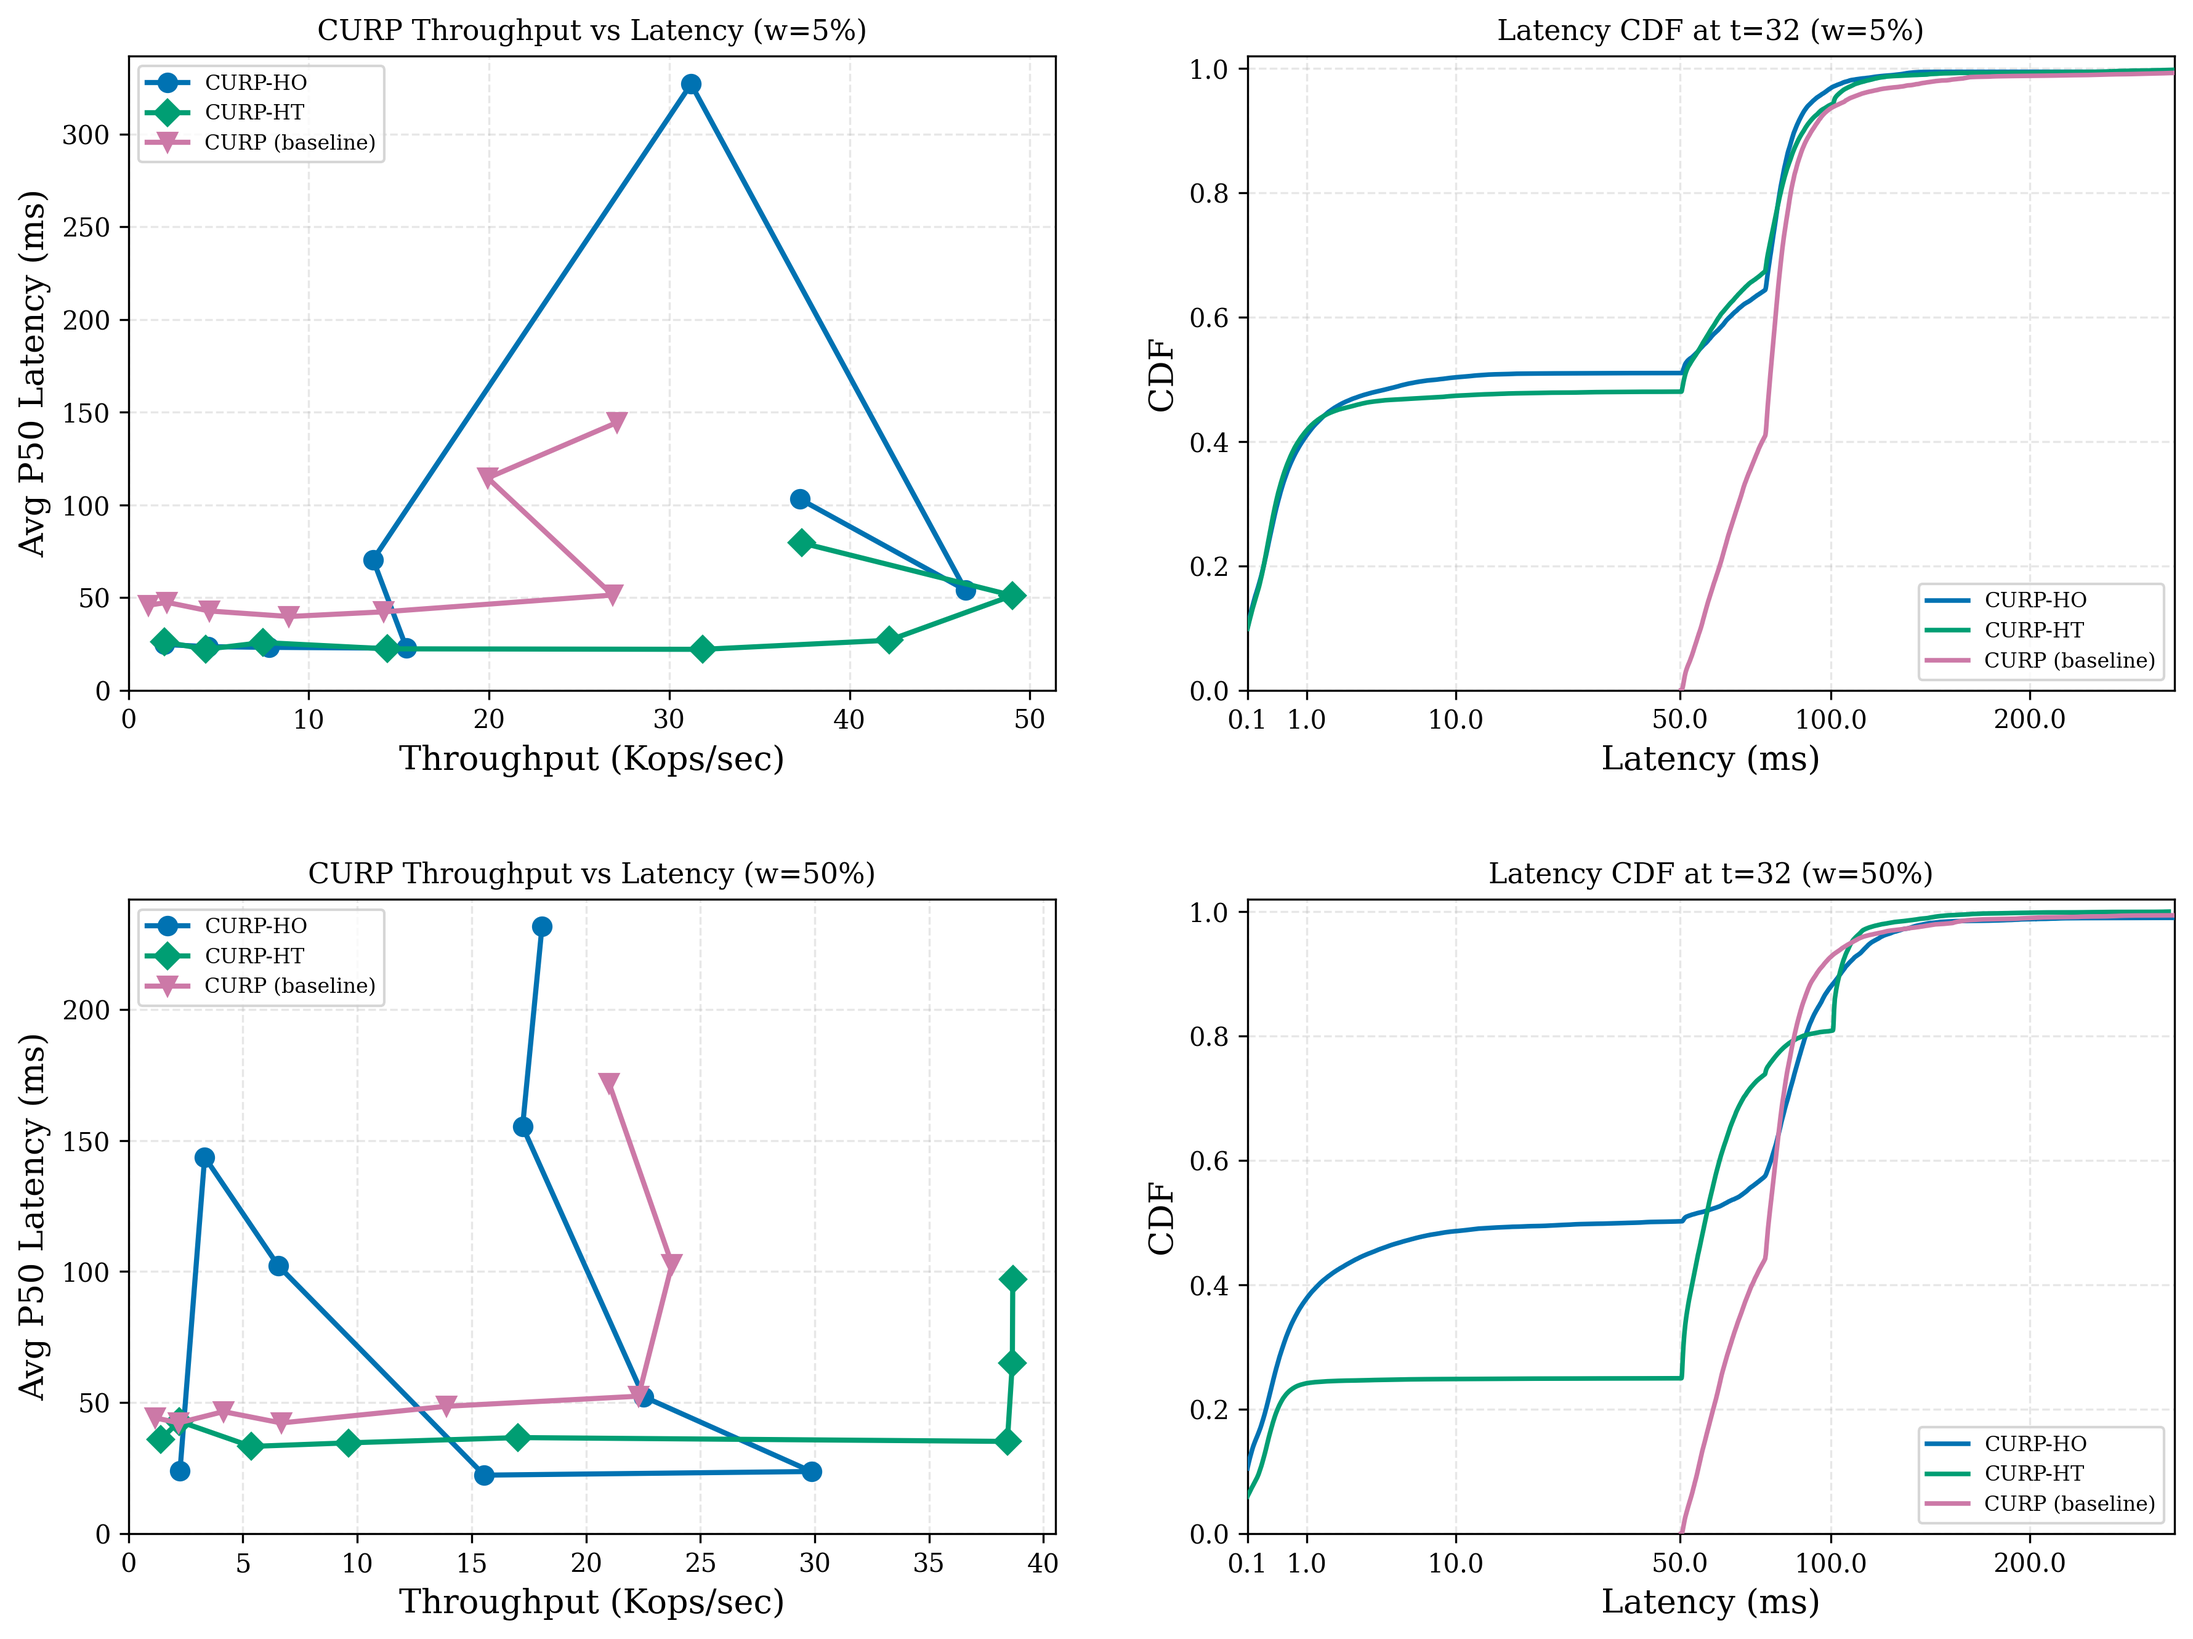
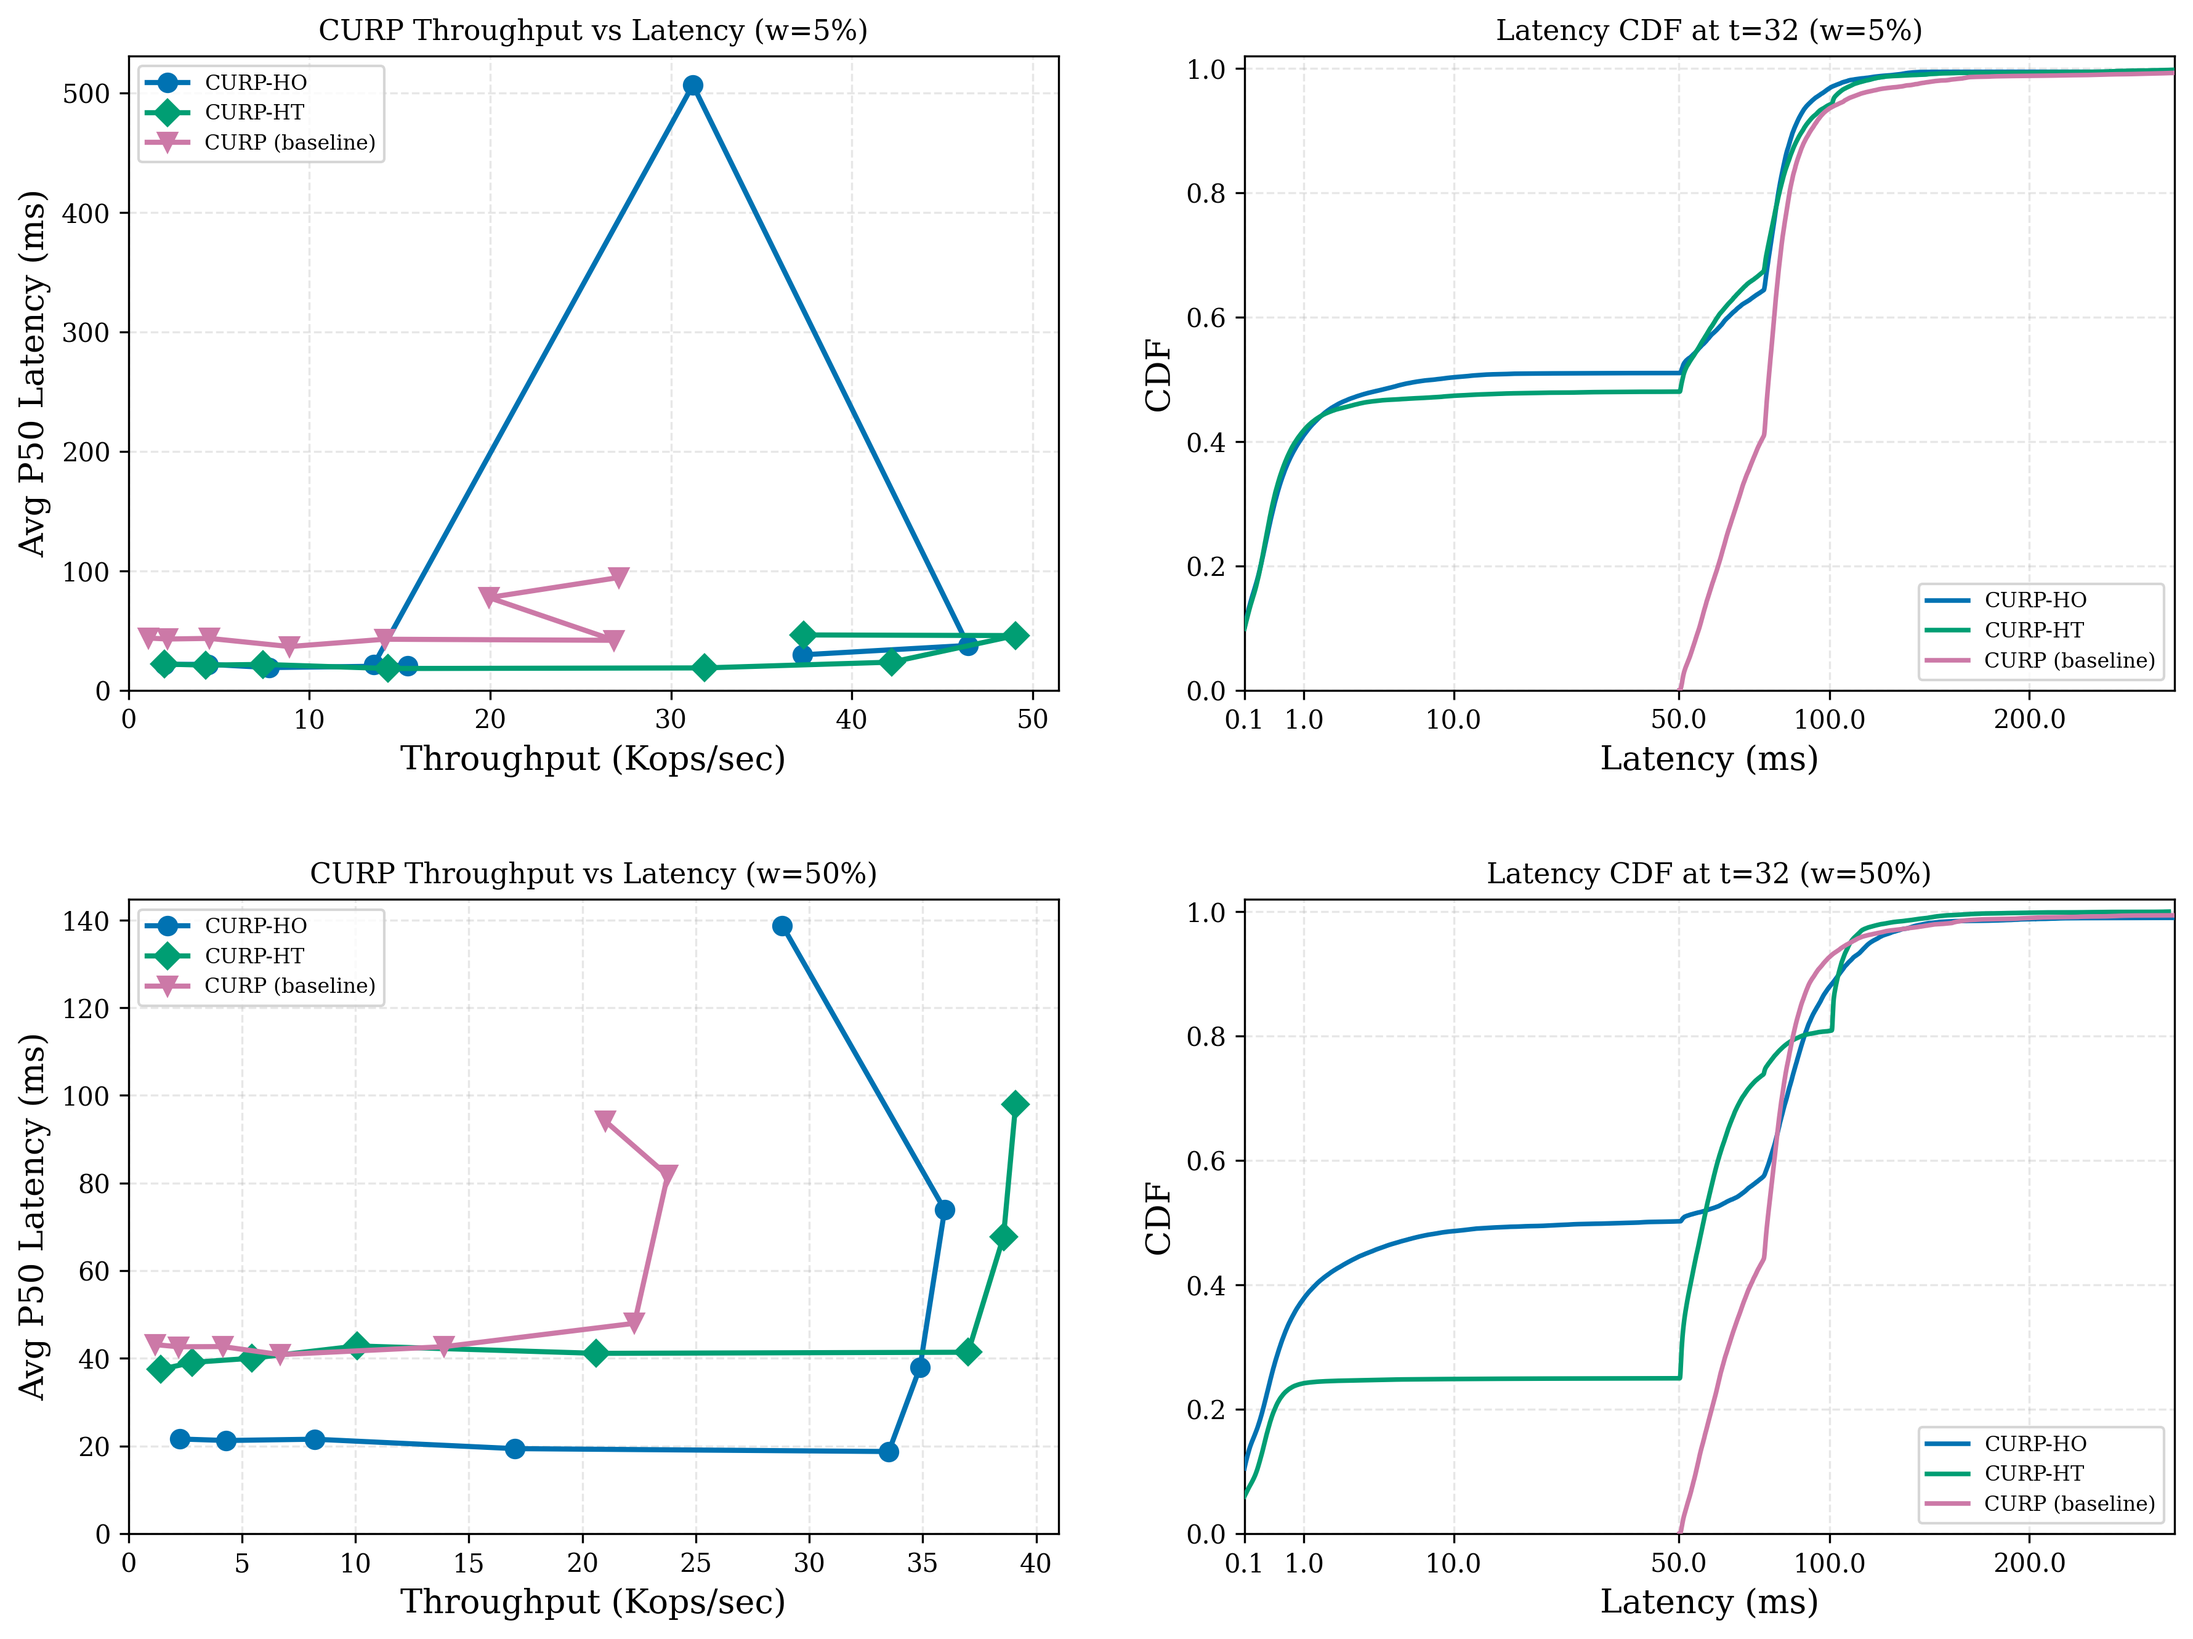
fix: CURP-HO event loop contention and fast path checks under geo RTT
Event loop fix:
- Move CausalPropose processing out of main event loop to separate goroutine
- Non-leader: witness pool + speculative reply done entirely in goroutine
- Leader: only slot assignment forwarded to main loop via causalSlotChan
- Reduces event loop contention from weak write broadcast messages

Fast path checks:
- Disable CausalDeps and ReadDep consistency checks under asymmetric RTT
- Root cause: remote replicas receive weak writes later than local ones,
  making witness pool state inconsistent across replicas
- Known limitation of CURP-HO's optimistic fast path under non-uniform latency

Results (w=50% t=32):
- Before: 22.5K ops/sec (client0=489, client2=0 — severe timeouts)
- After:  34.9K ops/sec (client0=11.8K, client2=11.2K — balanced)

diff --git a/curp-ho/curp-ho.go b/curp-ho/curp-ho.go
@@ -81,6 +81,12 @@ type Replica struct {
 	// Pre-allocated closed channel for immediate notifications (avoids repeated allocations)
 	closedChan chan struct{}
 
+	// Channel for leader slot assignment of causal (weak) commands.
+	// CausalPropose processing is moved out of the main event loop to a
+	// separate goroutine. On the leader, only the slot assignment part is
+	// forwarded to the main event loop via this channel.
+	causalSlotChan chan *MCausalPropose
+
 	// Channel-based causal dep notification (replaces spin-wait in waitForWeakDep)
 	// Key: clientId, Value: channel closed when latest executed seqnum advances
 	weakDepNotify map[int32]chan struct{}
@@ -203,6 +209,9 @@ func New(alias string, rid int, addrs []string, exec bool, pl, f int,
 	r.closedChan = make(chan struct{})
 	close(r.closedChan)
 
+	// Initialize causal slot channel for leader event loop
+	r.causalSlotChan = make(chan *MCausalPropose, defs.CHAN_BUFFER_SIZE)
+
 	// Initialize channel-based weak dep notification (replaces spin-wait)
 	r.weakDepNotify = make(map[int32]chan struct{})
 
@@ -297,6 +306,44 @@ func (r *Replica) run() {
 			}
 		}()
 	}
+
+	// Separate goroutine to drain causalProposeChan off the main event loop.
+	// Non-leader work (witness pool + speculative reply) is done here directly.
+	// Leader slot assignment is forwarded to the main event loop via causalSlotChan.
+	go func() {
+		for m := range r.cs.causalProposeChan {
+			causalPropose := m.(*MCausalPropose)
+			cmdId := CommandId{ClientId: causalPropose.ClientId, SeqNum: causalPropose.CommandId}
+
+			// Non-leader: add to witness pool for conflict detection
+			if !r.isLeader {
+				r.unsyncCausal(causalPropose.Command, cmdId)
+			}
+
+			// ALL replicas: track pending write for speculative reads
+			if causalPropose.Command.Op == state.PUT {
+				r.addPendingWrite(causalPropose.ClientId, causalPropose.Command.K,
+					causalPropose.CommandId, causalPropose.Command.V)
+			}
+
+			// Bound replica: compute speculative result and reply (1-RTT)
+			if r.Id == causalPropose.BoundReplica {
+				val := r.computeSpeculativeResult(causalPropose.ClientId,
+					causalPropose.CausalDep, causalPropose.Command)
+				rep := &MCausalReply{
+					Replica: r.Id,
+					CmdId:   cmdId,
+					Rep:     val,
+				}
+				r.SendClientMsgFast(causalPropose.ClientId, r.cs.causalReplyRPC, rep)
+			}
+
+			// Leader: forward to main event loop for slot assignment
+			if r.isLeader {
+				r.causalSlotChan <- causalPropose
+			}
+		}
+	}()
 
 	var cmdId CommandId
 	for !r.Shutdown {
@@ -406,10 +453,16 @@ func (r *Replica) run() {
 			}
 			// Non-Leader ignores weak propose (should not receive it)
 
-		case m := <-r.cs.causalProposeChan:
-			causalPropose := m.(*MCausalPropose)
-			r.handleCausalPropose(causalPropose)
-			// ALL replicas handle causal proposes (witness pool + reply)
+		case propose := <-r.causalSlotChan:
+			// Leader-only: assign slot and start async replication.
+			// Non-leader work was already done in the causalProposeChan goroutine.
+			cmdId.ClientId = propose.ClientId
+			cmdId.SeqNum = propose.CommandId
+			slot := r.lastCmdSlot
+			r.lastCmdSlot++
+			dep := r.leaderUnsyncCausal(propose.Command, slot, cmdId)
+			desc := r.getCausalCmdDesc(slot, propose, dep)
+			go r.asyncReplicateCausal(desc, slot, propose.ClientId, propose.CommandId, propose.CausalDep)
 
 		case m := <-r.cs.weakReadChan:
 			weakRead := m.(*MWeakRead)

diff --git a/curp-ho/client.go b/curp-ho/client.go
@@ -398,7 +398,11 @@ func (c *Client) handleFastPathAcks(leaderMsg interface{}, msgs []interface{}) {
 
 	cmdId := leaderMsg.(*MRecordAck).CmdId
 
-	// Check 1: Causal dependency check (temporarily disabled for debugging)
+	// Check 1: Causal dependency check
+	// Disabled in geo-distributed deployment: asymmetric RTT causes remote
+	// replicas to receive weak writes later than local ones, making CausalDeps
+	// inconsistent across witnesses. This is a known limitation of CURP-HO's
+	// optimistic fast path under non-uniform network latencies.
 	// if !c.checkCausalDeps(msgs) {
 	// 	c.mu.Lock()
 	// 	if _, exists := c.alreadySlow[cmdId]; !exists {
@@ -409,7 +413,9 @@ func (c *Client) handleFastPathAcks(leaderMsg interface{}, msgs []interface{}) {
 	// 	return
 	// }
 
-	// Check 2: ReadDep consistency check (temporarily disabled for debugging)
+	// Check 2: ReadDep consistency check
+	// Disabled for same reason as CausalDeps: witness pool state diverges
+	// under asymmetric RTT.
 	// if !c.checkReadDepConsistency(msgs) {
 	// 	c.mu.Lock()
 	// 	if _, exists := c.alreadySlow[cmdId]; !exists {
